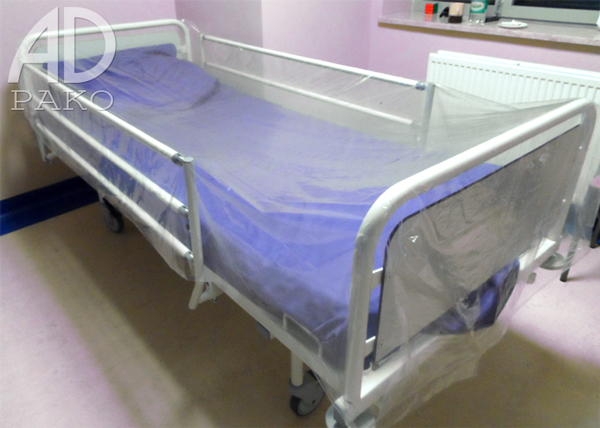
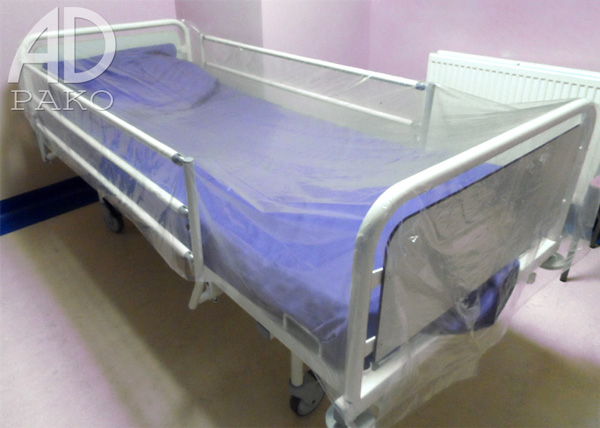
v 3.9
Fix:
- one photo (wall)
- display of zalety
- border of slider

Changed region(s): [[0.63, 0.0, 1.0, 0.1519]]

diff --git a/public_html/index.html b/public_html/index.html
@@ -74,12 +74,12 @@
             <div class="photo-main-right">
                 <div class="container">
                     <div id="slides">
-                        <a href="images/lozko_new.jpg" rel="lightbox-show" title="Pokrowiec na łóżko szpitalne z gumką"><img src="images/lozko_new.jpg" alt="Pokrowiec na łóżko szpitalne z gumką"></a>
-                        <a href="images/lozko2_new.jpg" rel="lightbox-show" title="Pokrowiec na łóżko szpitalne z gumką"><img src="images/lozko2_new.jpg" alt="Pokrowiec na łóżko szpitalne z gumką"></a>
-                        <a href="images/aparatura2_new.jpg" rel="lightbox-show" title="Pokrowiec na aparaturę medyczną"><img src="images/aparatura2_new.jpg" alt="Pokrowiec na aparaturę z gumką"></a>
+                        <a href="images/lozko_new.jpg" rel="lightbox-show" title="Pokrowiec na łóżko szpitalne"><img src="images/lozko_new.jpg" alt="Pokrowiec na łóżko szpitalne"></a>
+                        <a href="images/lozko2_new.jpg" rel="lightbox-show" title="Pokrowiec na łóżko szpitalne"><img src="images/lozko2_new.jpg" alt="Pokrowiec na łóżko szpitalne"></a>
+                        <a href="images/aparatura2_new.jpg" rel="lightbox-show" title="Pokrowiec z gumką na aparaturę medyczną"><img src="images/aparatura2_new.jpg" alt="Pokrowiec na aparaturę z gumką"></a>
                         <a href="images/inkubator_new.jpg" rel="lightbox-show" title="Pokrowiec na inkubator"><img src="images/inkubator_new.jpg" alt="Pokrowiec na inkubator"></a>
-                        <a href="images/lampa_new.jpg" rel="lightbox-show" title="Pokrowiec na aparaturę medyczną"><img src="images/lampa_new.jpg" alt="Pokrowiec na aparaturę medyczną"></a>
-                        <a href="images/aparatura_new.jpg" rel="lightbox-show" title="Pokrowiec na aparaturę medyczną"><img src="images/aparatura_new.jpg" alt="Pokrowiec na aparaturę"></a>
+                        <a href="images/lampa_new.jpg" rel="lightbox-show" title="Pokrowiec z gumką na aparaturę medyczną"><img src="images/lampa_new.jpg" alt="Pokrowiec na aparaturę medyczną"></a>
+                        <a href="images/aparatura_new.jpg" rel="lightbox-show" title="Pokrowiec z gumką na aparaturę medyczną"><img src="images/aparatura_new.jpg" alt="Pokrowiec na aparaturę"></a>
                     </div>
                 </div>
                 

diff --git a/public_html/strony/produkty.html b/public_html/strony/produkty.html
@@ -83,7 +83,7 @@
                         do Państwa oczekiwań. 
                     </p>
                     
-                    <a href="../images/lozko_new.jpg" rel="lightbox"><img src="../images/lozko_new.jpg" alt="łóżko"></a>
+                    <a href="../images/lozko_new.jpg" rel="lightbox" title="Pokrowiec na łóżko szpitalne"><img src="../images/lozko_new.jpg" alt="łóżko"></a>
                         
                 </div>
                         
@@ -98,7 +98,7 @@
                         miękkiej folii LDPE. Nasza firma jest w stanie dostosować się z rozmiarem do wymagań klienta.
                     </p>
                     
-                    <a href="../images/aparatura_new.jpg" rel="lightbox"><img src="../images/aparatura_new.jpg" alt="aparatura"></a>
+                    <a href="../images/aparatura_new.jpg" rel="lightbox" title="Pokrowiec z gumką na aparaturę medyczną"><img src="../images/aparatura_new.jpg" alt="aparatura"></a>
                     
                 </div>
                 <hr>
@@ -112,7 +112,7 @@
                         180x90x60 cm dł./szer./gł. Wielkość ta pozwala na zakrycie i zabezpieczenie całego inkubatora 
                         przed zabrudzeniami zewnętrznymi jak i bakteriami.
                     </p>
-                    <a href="../images/inkubator_new.jpg" rel="lightbox"><img src="../images/inkubator_new.jpg" alt="inkubator"></a>
+                    <a href="../images/inkubator_new.jpg" rel="lightbox" title="Pokrowiec na inkubator"><img src="../images/inkubator_new.jpg" alt="inkubator"></a>
                     
                 </div>
                 <hr>
@@ -130,7 +130,7 @@
                             <li>czarne - worki przemysłowe</li>
                          </ul>-->
                     
-                <a href="../images/worki.png" rel="lightbox"><img src="../images/worki.png" alt="worki"></a>
+                <a href="../images/worki.png" rel="lightbox" title="Worki na odpady medyczne"><img src="../images/worki.png" alt="worki"></a>
                 </div>
                 <hr>
                 <div class="produkt left">

diff --git a/public_html/css/main.css b/public_html/css/main.css
@@ -141,7 +141,7 @@ body, html {
     display: inline-block;
     margin-top: 8%;
     height: 250px;
-    width: 40%;
+    width: 37%;
     overflow: hidden;
     opacity: 0.7;
     border: 1px solid steelblue;
@@ -531,7 +531,7 @@ body, html {
     
     
     /*@media all and (min-width:480px) and (max-width: 1280px){*/
-    @media (max-width: 1400px){
+    @media (max-width: 1500px){
         
         #container-produkty{
             width: 90%;
@@ -558,7 +558,7 @@ body, html {
         
         .photo-main-right{
             margin-top: 8%;
-            width: 35%;
+            width: 33%;
         }
  
         #container-b{
@@ -570,6 +570,12 @@ body, html {
             display: none;
         }
         
+    }
+    
+    @media (min-height: 800px){
+        .description-zalety{
+            display: block;
+        }
     }
     
     @media (max-width: 500px){

diff --git a/public_html/css/slimbox2.css b/public_html/css/slimbox2.css
@@ -56,7 +56,7 @@
 
 #lbBottom {
 	font-family: Verdana, Arial, Geneva, Helvetica, sans-serif;
-	font-size: 10px;
+	font-size: 12px;
 	color: #666;
 	line-height: 1.4em;
 	text-align: left;
